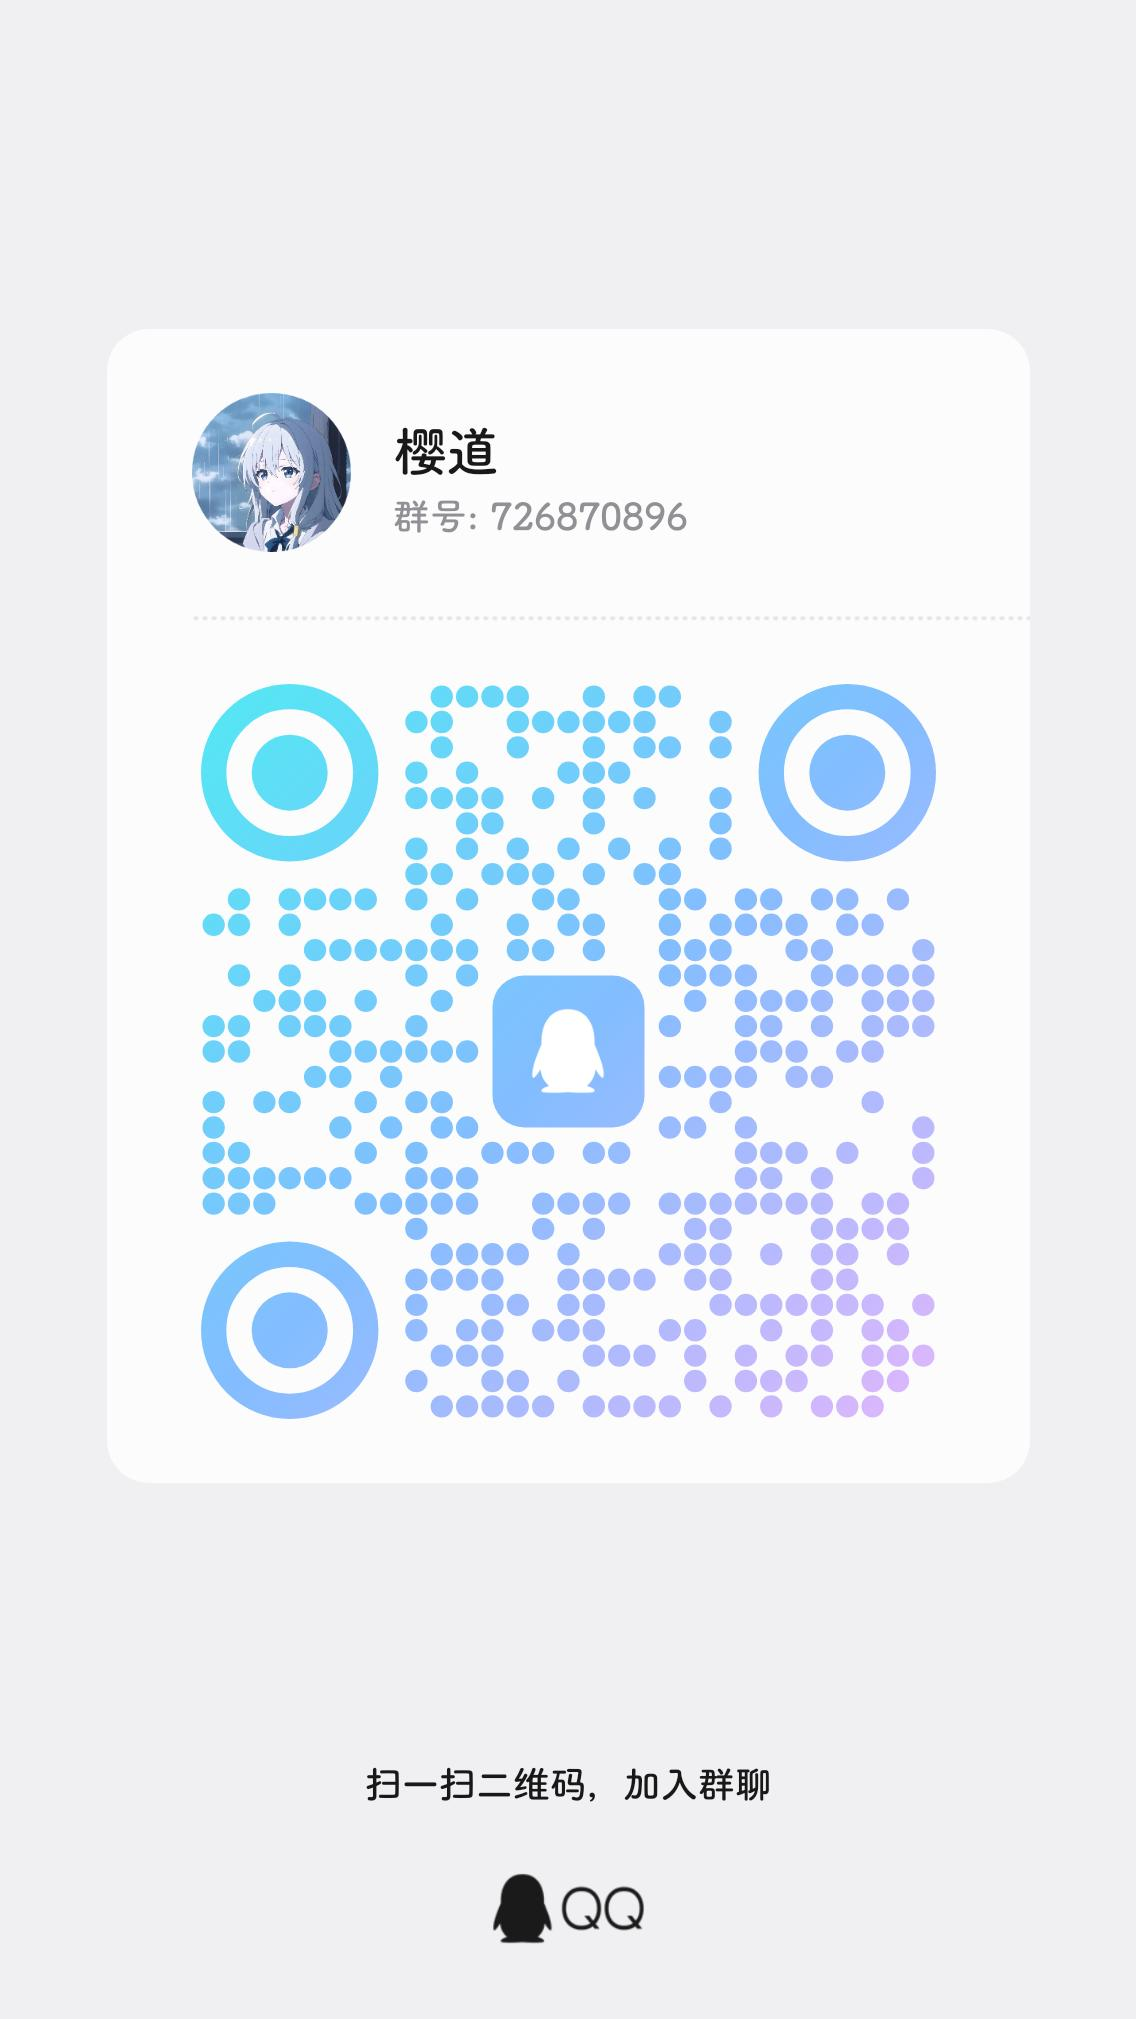
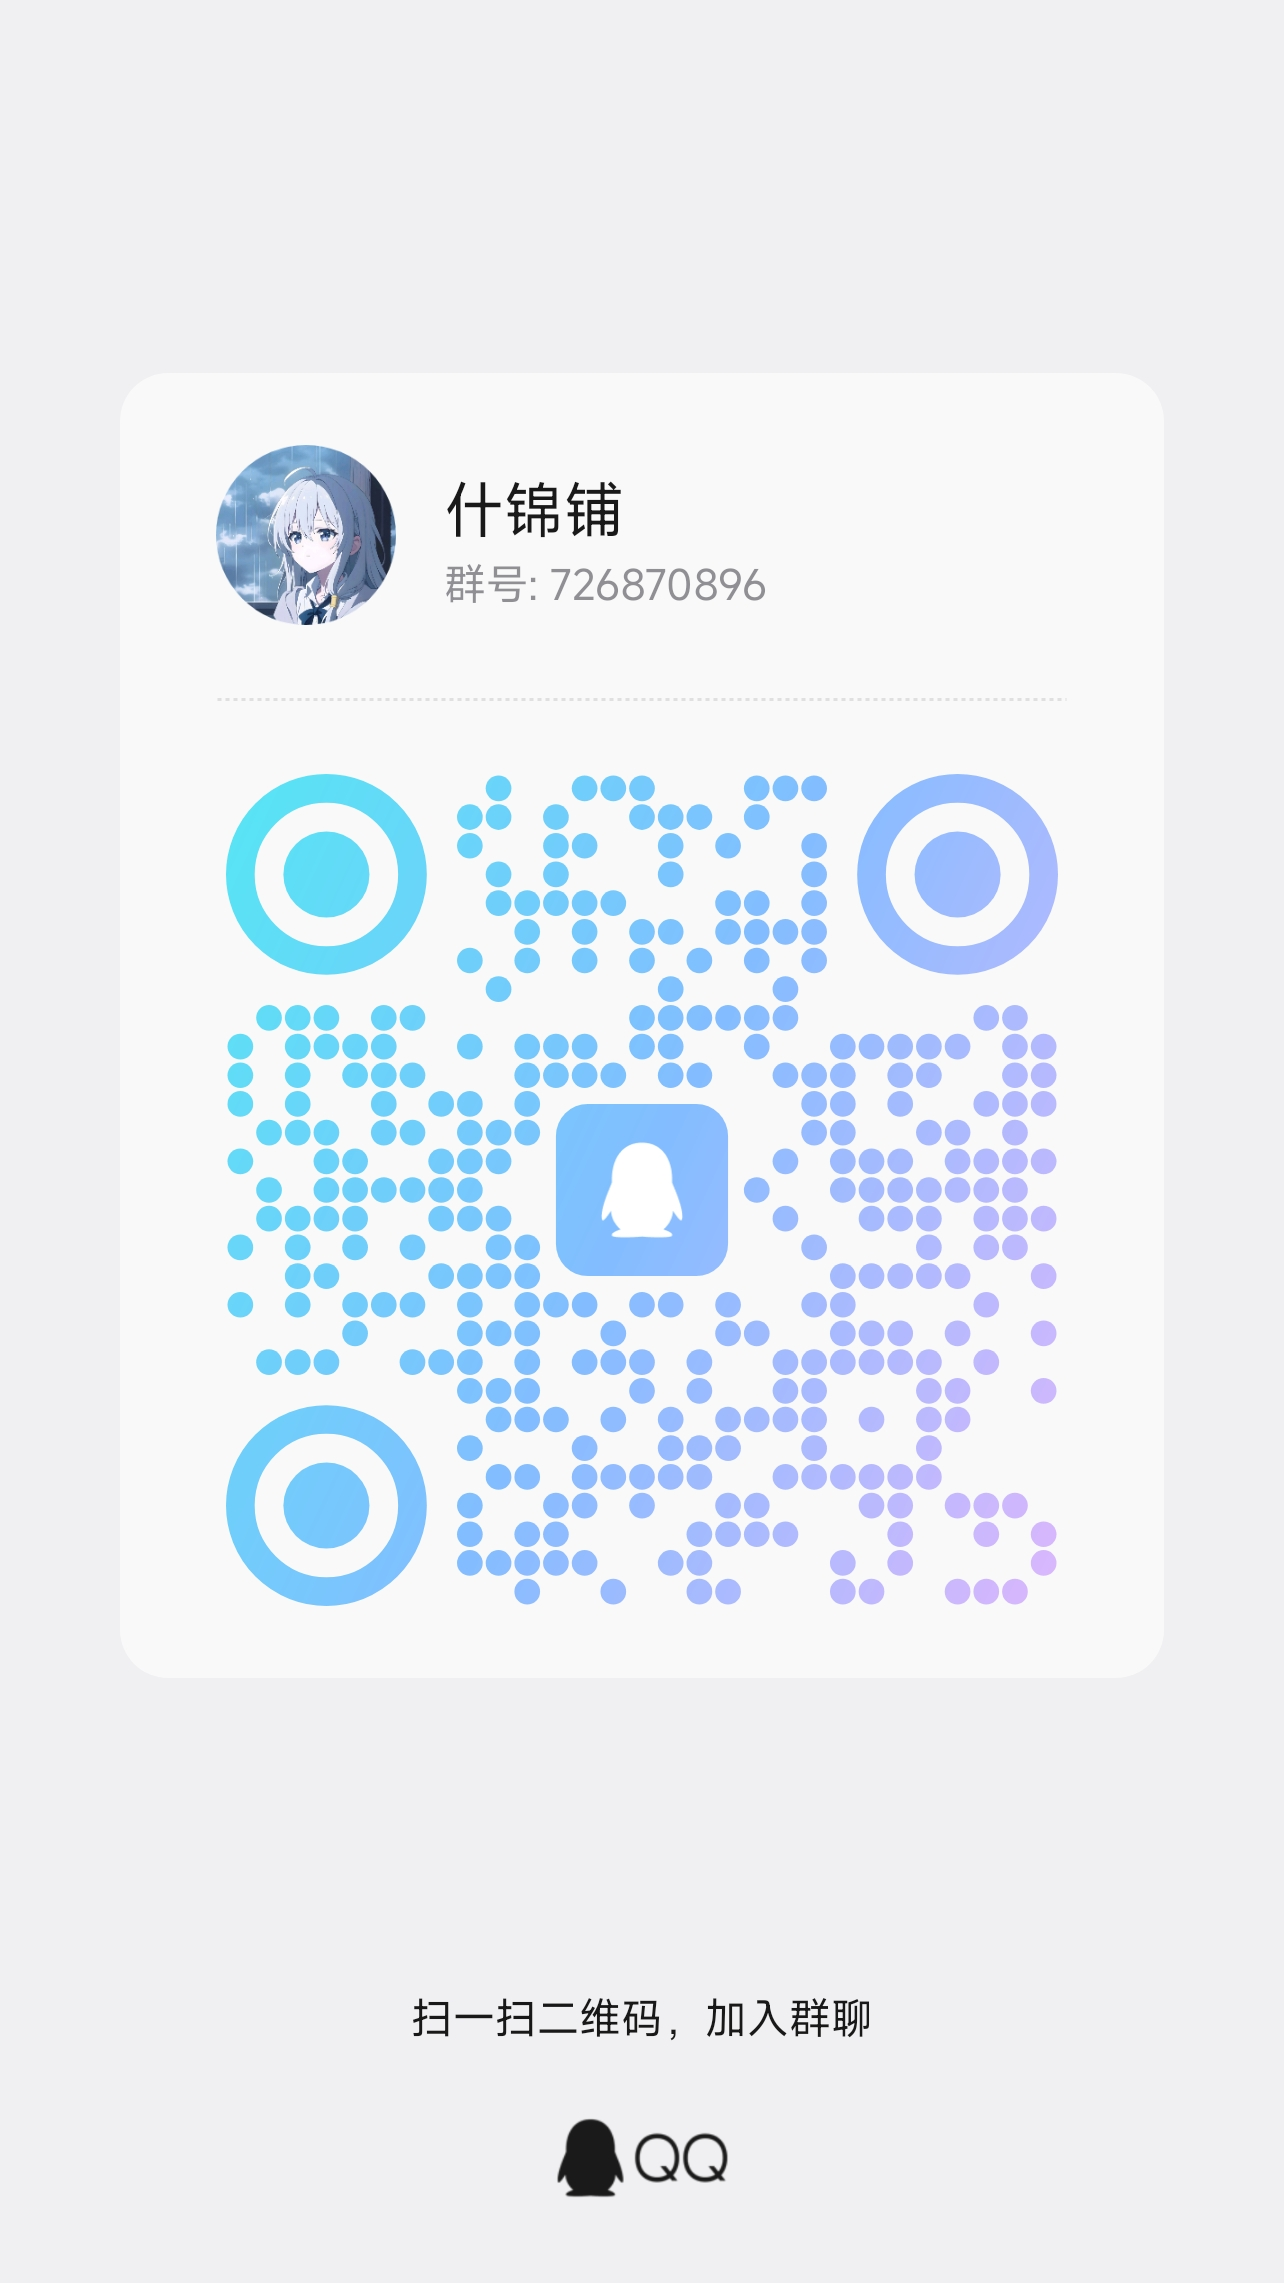
chore: sync upstream while retaining README and QQ group image

diff --git a/README.md b/README.md
@@ -106,7 +106,7 @@ Linux / Arch 社区移植正在推进，见 [#308](https://github.com/ch6vip/nov
 
 ### 🤝 QQ 交流群
 
-欢迎加入 **樱道** 交流群，分享使用心得、交流问题。用 QQ 扫码，或搜索群号 **726870896** 加入。
+欢迎加入 **什锦铺** 交流群，分享使用心得、交流问题。用 QQ 扫码，或搜索群号 **726870896** 加入。
 
 <p align="center">
   <a href=".github/qq-group.png">
